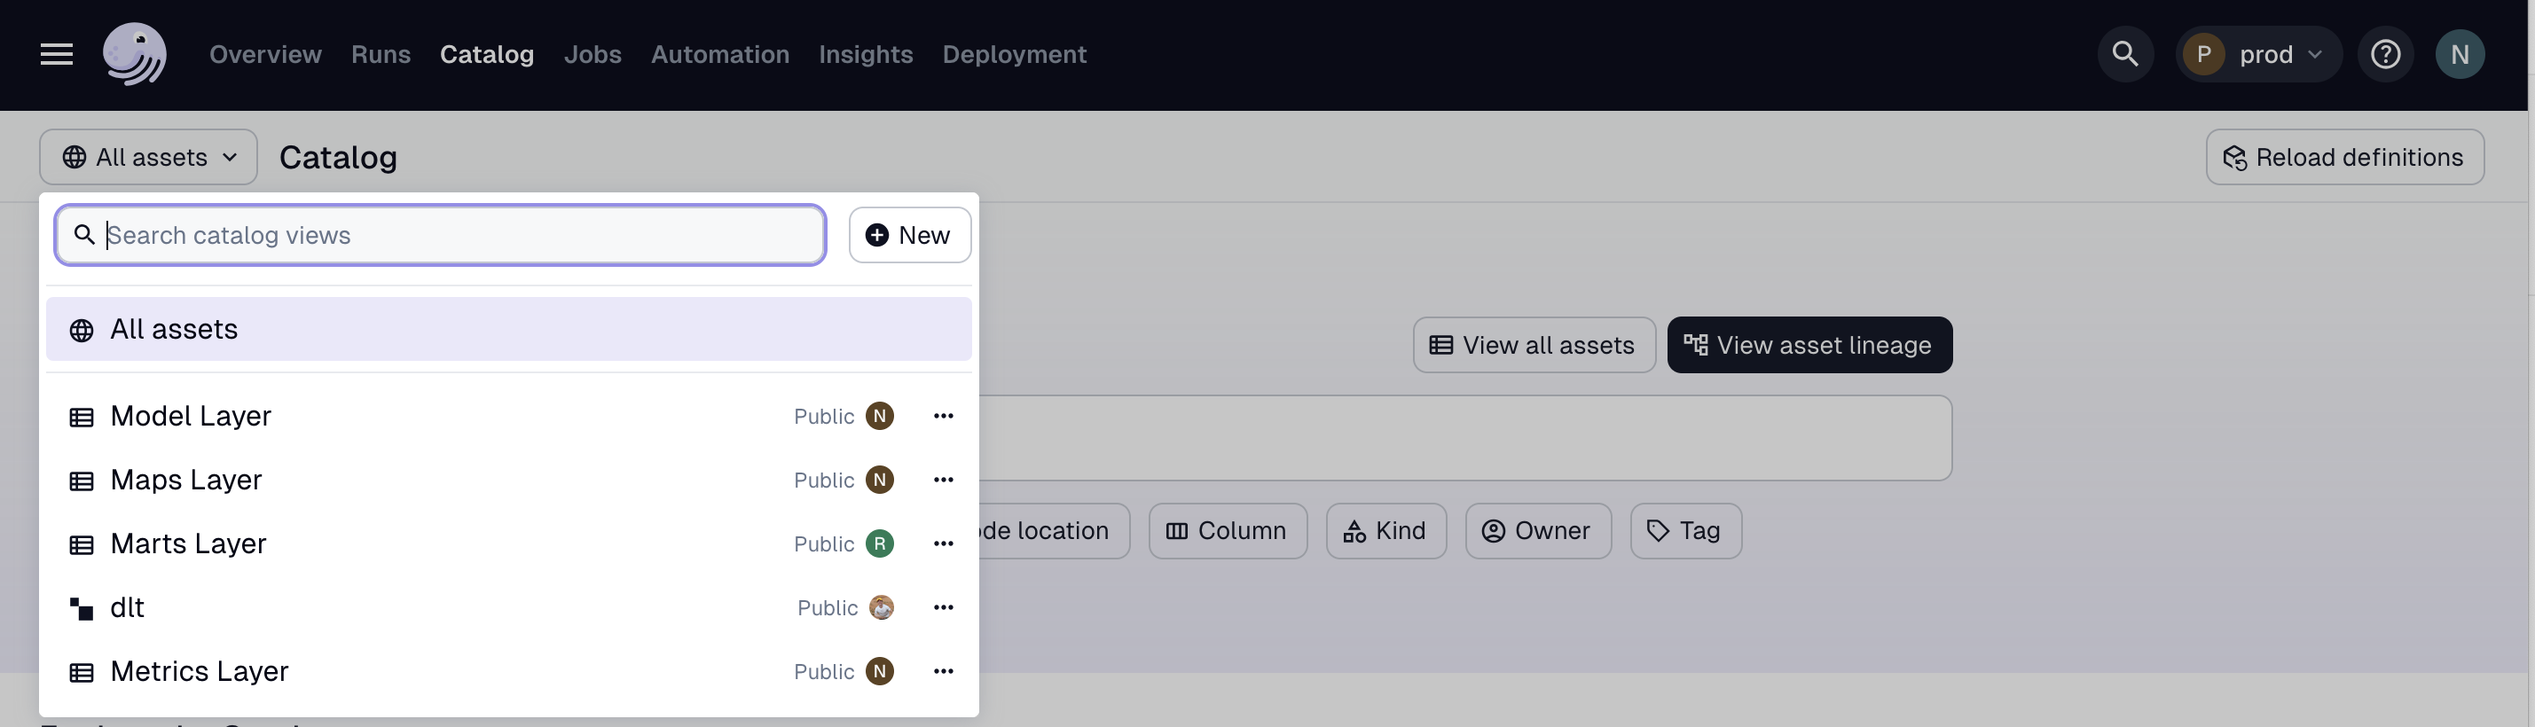
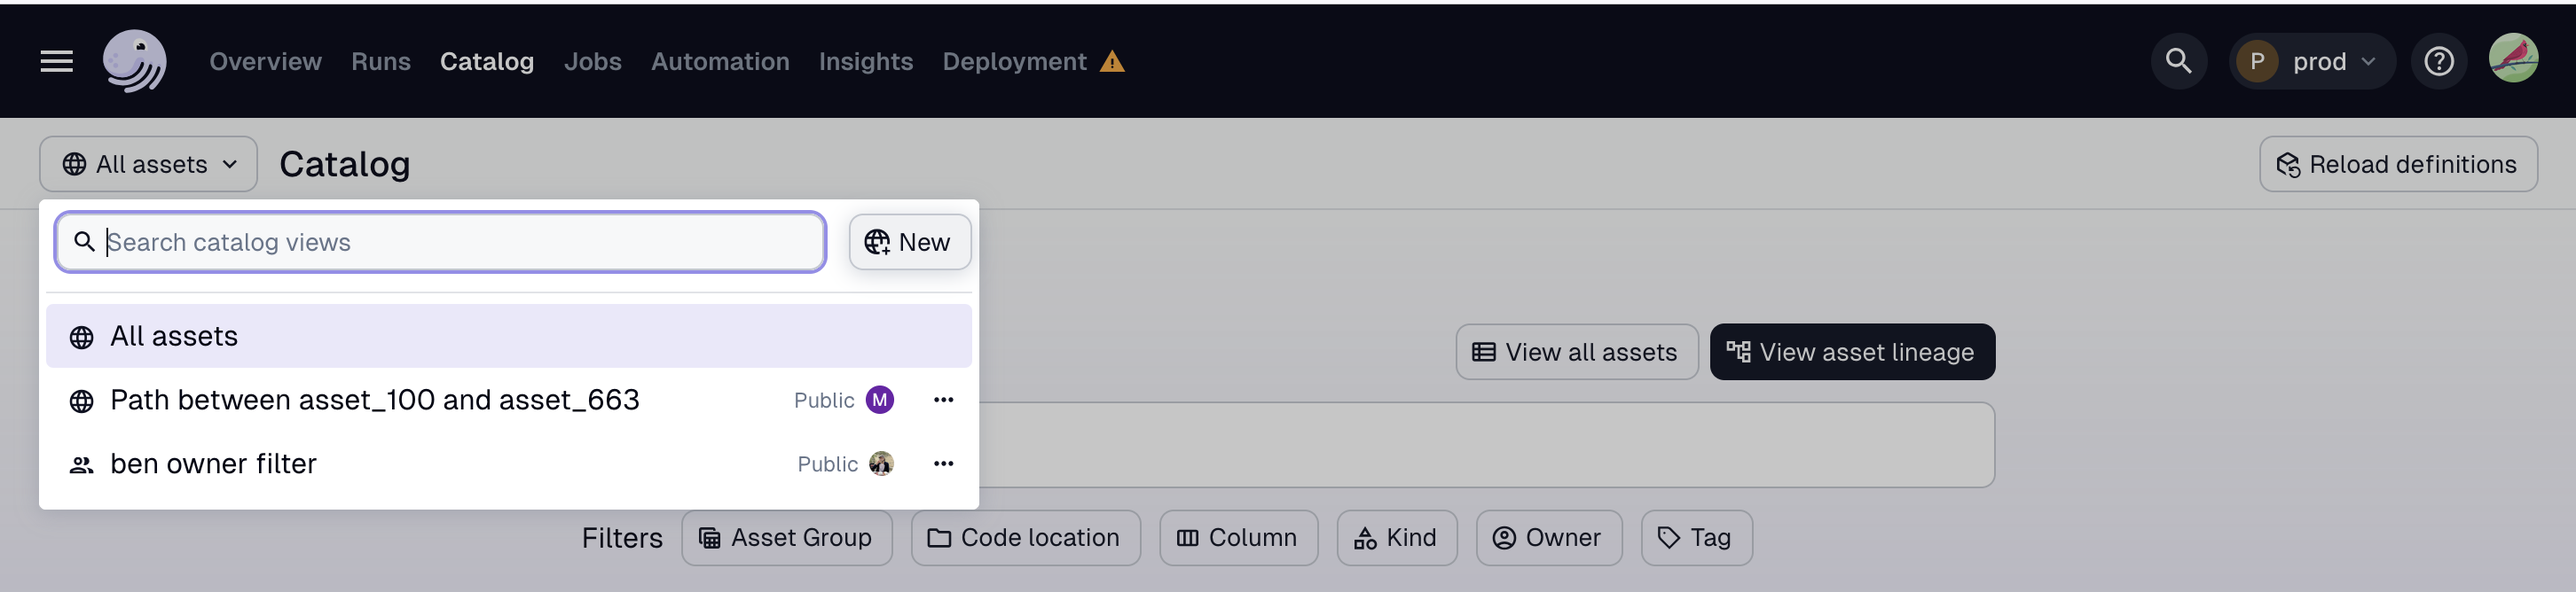
update catalog views page

diff --git a/docs/docs/dagster-plus/features/asset-catalog/catalog-views.md b/docs/docs/dagster-plus/features/asset-catalog/catalog-views.md
@@ -3,12 +3,12 @@ title: "Catalog views"
 sidebar_position: 100
 ---
 
-Catalog views enable you to filter down your view of the Dagster Asset catalog in Dagster+, allowing you to toggle between sets of assets that you care about most.
+Catalog views enable you to filter down your view of the Dagster Asset catalog in Dagster+ with the [asset selection syntax](/guides/build/assets/asset-selection-syntax/), allowing you to toggle between sets of assets that you care about most.
 
 You can save catalog views for your own use or share them with your team. For example, you could create views that:
 
-- Filter assets based on ownership to only show those owned by your team
-- Filter assets based on the asset kind to give insight into the status of your ELT ingestion
+- Select assets based on ownership to only show those owned by your team
+- Select assets based on the asset kind to give insight into the status of your ELT ingestion
 - Display assets with a "gold" medallion tag, showing only refined, high-quality data that analysts can use with confidence
 
 In this guide, you'll learn how to create, access, and share catalog views with others.
@@ -21,45 +21,42 @@ Catalog views require **Organization Admin**, **Admin**, or **Editor** permissio
 
 ## Creating catalog views
 
-To view the Dagster+ Asset catalog, use the **Catalog** button on the top navigation.
-
-In any Dagster+ catalog page, you can access the current catalog view, or create a new catalog view with the catalog view dropdown at the top left of the screen. By default, this button is labeled **All assets**, and has a globe icon.
+On any Dagster+ Catalog page, you can access the current catalog view, or create a new catalog view with the catalog view dropdown at the top left of the screen. By default, this button is labeled **All assets**, and has a globe icon.
 
 ![Screenshot of the catalog view dropdown](/images/dagster-plus/features/asset-catalog/catalog-views.png)
 
 To create a new catalog view, you have two options:
 - [Create a new catalog view from scratch](#creating-a-new-catalog-view-from-scratch), from the catalog view menu.
-- [Create a new catalog view from your current set of filters](#creating-a-new-catalog-view-from-your-current-set-of-filters).
+- [Create a new catalog view from your current asset selection](#creating-a-new-catalog-view-from-your-current-asset-selection).
 
 ### Creating a new catalog view from scratch
 
 1. Click the catalog view dropdown to open the catalog view menu. From here, click the **New** button.
-2. In the search box, enter an asset selection. Asset selections can select a subset of assets with the [asset selection syntax](/guides/build/assets/asset-selection-syntax/reference).
-3. Give the view a name and optionally, a description and icon.
-4. To make the view shareable, toggle the **Public view** switch.
+2. In the search box, enter an asset selection using the [asset selection syntax](/guides/build/assets/asset-selection-syntax/reference).
+3. Give your view a name and optionally, a description and icon.
+4. To share your view, toggle the **Public view** switch.
 5. Click **Create view** to create the view.
 
 ![Screenshot of new catalog view modal](/images/dagster-plus/features/asset-catalog/new-catalog-view.png)
 
-Give your view a name and optionally a description and icon. Next, you can select one or more filters to apply to your view by clicking the **Add filters** button. Filters can select a subset of assets based on their [metadata](/guides/build/assets/metadata-and-tags/), tags, kinds, owners, asset groups, or other properties.
+### Creating a new catalog view from your current asset selection
 
-### Creating a new catalog view from your current set of filters
+When viewing the global asset lineage or asset list, you can create a new catalog view from your current asset selection.
 
-When viewing the global asset lineage or asset list, you can create a new catalog view from your current set of filters.
-
-1. On these pages, enter an asset selection in the search box.
+1. On these pages, enter an asset selection using the [asset selection syntax](/guides/build/assets/asset-selection-syntax/reference) in the search box.
 2. Click the **globe icon** located to the right of the search box. This will open the catalog view creation dialog with your current asset selection pre-populated.
-3. Give the view a name and optionally, a description and icon.
-4. To make the view shareable, toggle the **Public view** switch.
+3. Give your view a name and optionally, a description and icon.
+4. To share your view, toggle the **Public view** switch.
 5. Click **Create view** to create the view.
 
-![Screenshot of creating catalog view from filters](/images/dagster-plus/features/asset-catalog/new-catalog-view-from-asset-page.png)
+![Screenshot of creating catalog view from asset selection](/images/dagster-plus/features/asset-catalog/new-catalog-view-from-asset-list-page.png)
 
 ## Editing, duplicating, or deleting catalog views
 
 1. Click the **catalog view** button to open the catalog view menu.
 2. Search for the view you want to edit, duplicate, or delete.
 3. Click the **three dot menu** to the right of the view to display available options.
-4. If modifying the view, note that any active filters will automatically be included in the set of changes. You can also change the view's name, description, icon, and sharing settings. 5. When finished, click **Save changes**.
+4. If modifying the view, note that any active filters will automatically be included in the set of changes. You can also change the view's name, description, icon, and sharing settings.
+5. When finished, click **Save changes**.
 
 ![Screenshot of editing catalog views](/images/dagster-plus/features/asset-catalog/edit-catalog-view.png)
